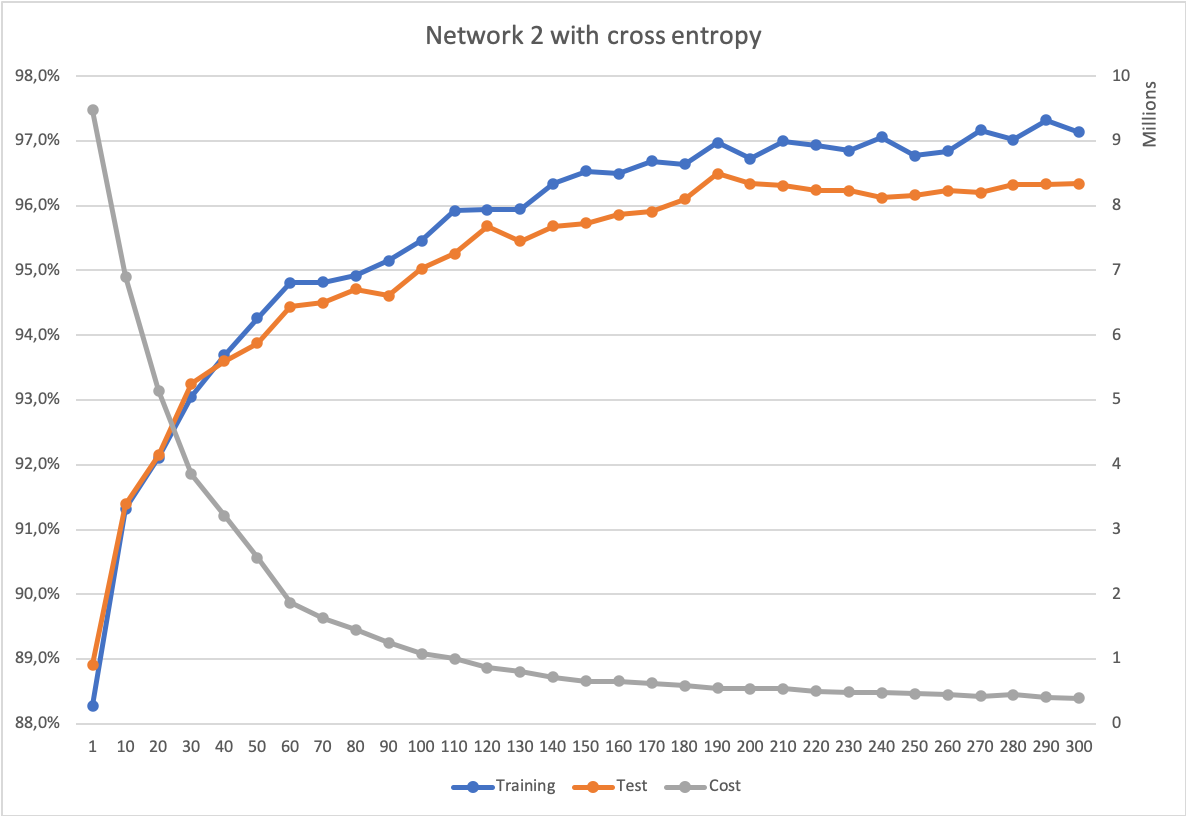
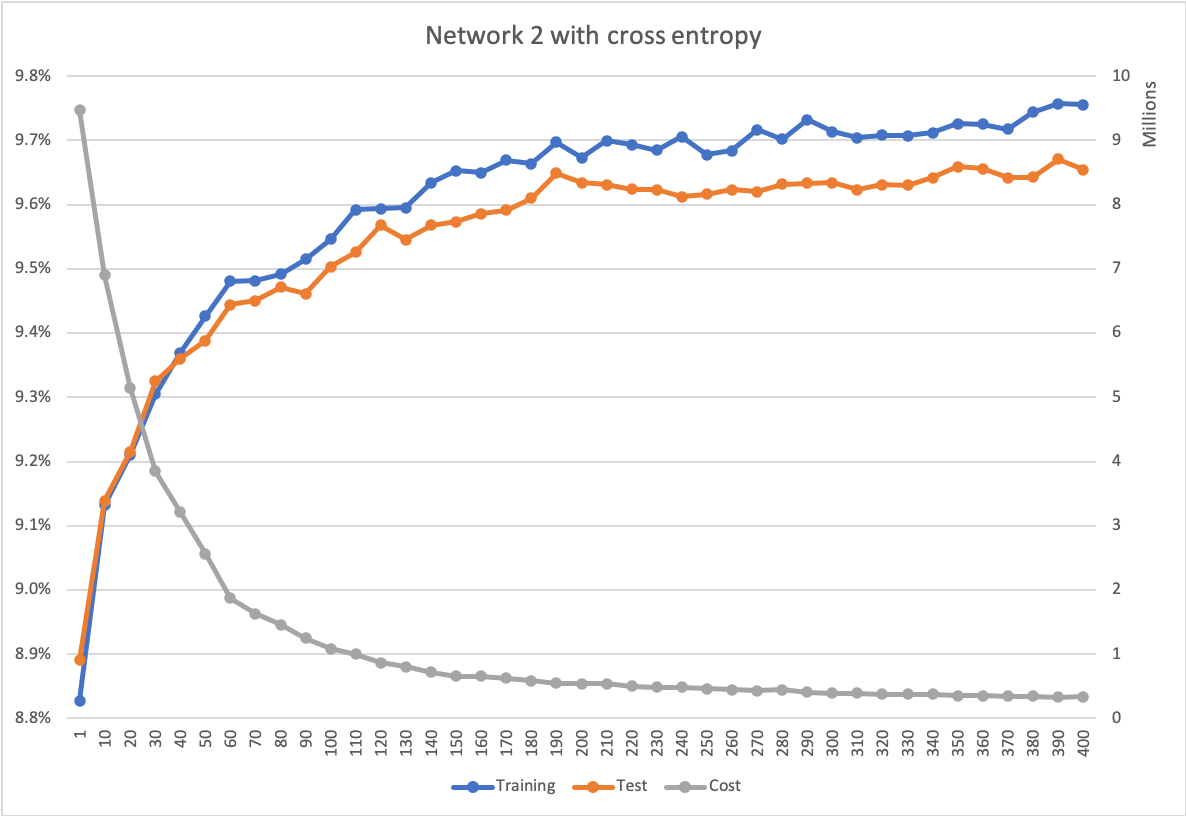
final v0.3

Changed region(s): [[0.0, 0.1225, 0.9359, 0.9498], [0.9359, 0.7047, 0.9671, 0.7353], [0.0312, 0.0919, 0.0624, 0.1225]]

diff --git a/README.md b/README.md
@@ -15,7 +15,7 @@ A few notes on the results:
 
 ![Network 1](assets/network1.png)
 
-* Results on the second implementation (eq. `network2.py`) finally went as high as the original implementation, but it took more epochs (rather 200 than 30), and a change of eta value (from 0.12 to 0.5) after the first 30 epochs, and still 300 neurons in the hidden layer;
+* Results on the second implementation (eq. `network2.py`) finally went as high as the original implementation, but it took more epochs (rather 400 than 30), and a change of eta value (from 0.12 to 0.5) after the first 30 epochs, and still 300 neurons in the hidden layer;
 
 ![Network 2 with cross entropy](assets/network2-crossEntropy.png)
 
